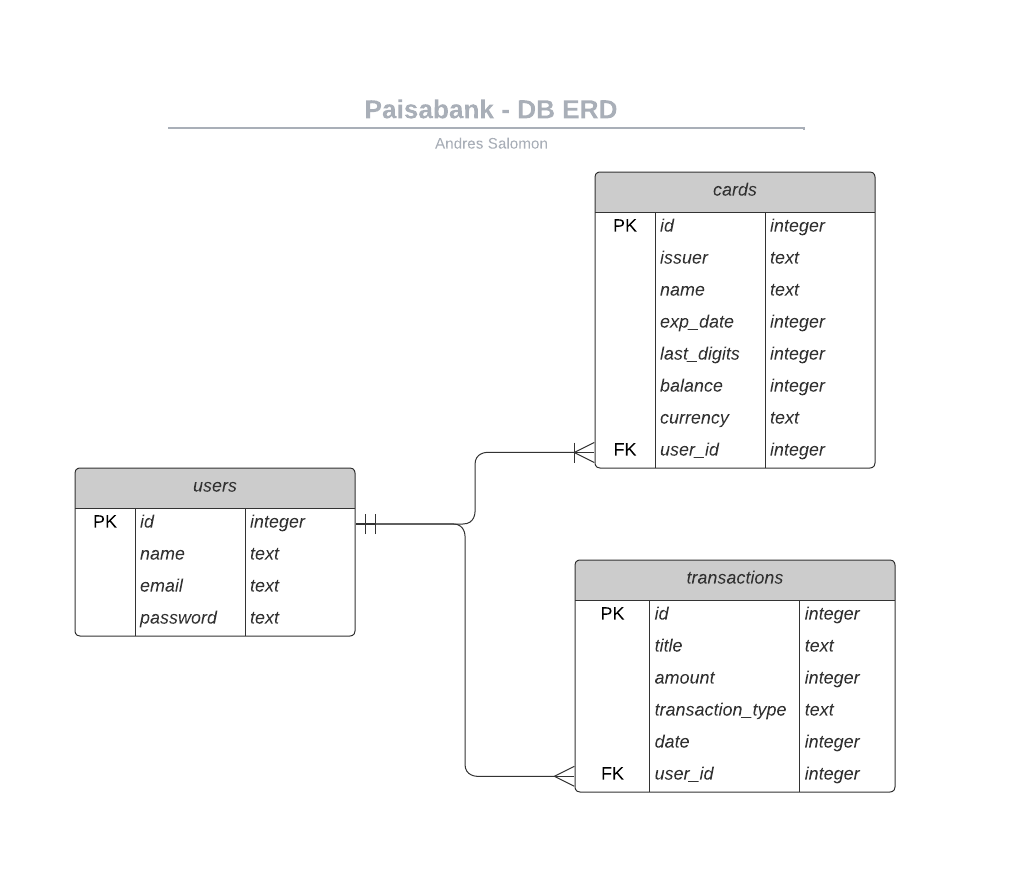
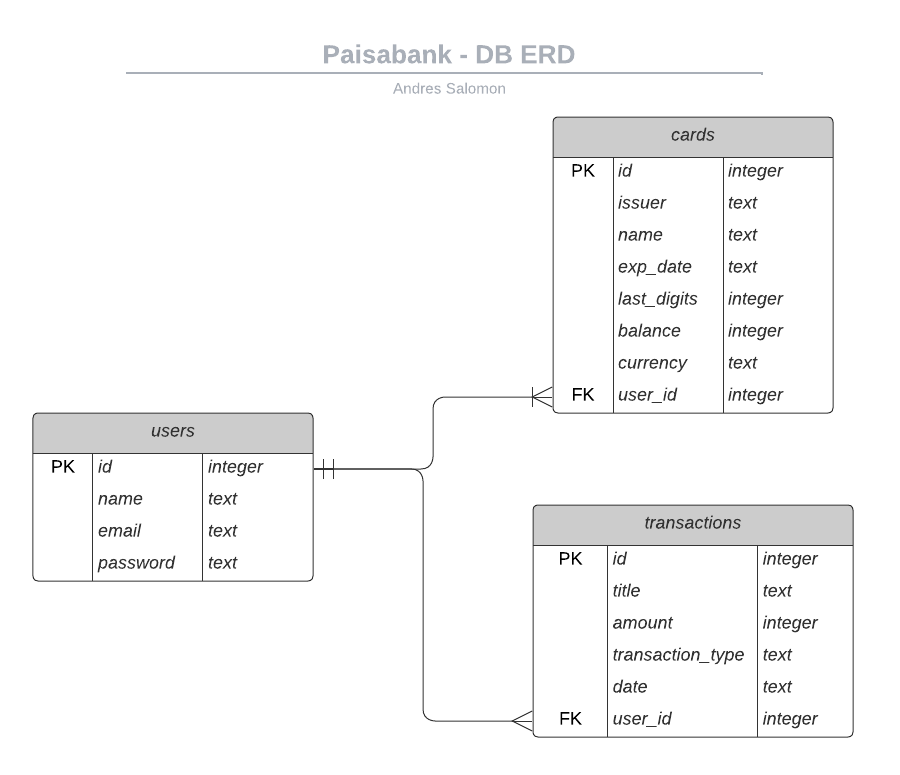
chore: update cards and transactions db schema. Update db ERD.

diff --git a/src/db/schemas/cards.ts b/src/db/schemas/cards.ts
@@ -8,7 +8,7 @@ export const CardsTable = sqliteTable("cards", {
   id: integer("id", { mode: "number" }).primaryKey({ autoIncrement: true }),
   issuer: text("issuer", { enum: ["VISA", "MASTERCARD"] }).notNull(),
   name: text("name").notNull(),
-  expirationDate: integer("expiration_date", { mode: "timestamp" }).notNull(),
+  expirationDate: text("expiration_date").notNull(),
   lastDigits: integer("last_digits", { mode: "number" }).notNull(),
   balance: integer("last_digits", { mode: "number" }).notNull(),
   currency: text("name", { enum: ["ARS", "USD"] }).notNull(),

diff --git a/src/db/schemas/transactions.ts b/src/db/schemas/transactions.ts
@@ -9,7 +9,7 @@ export const TransactionsTable = sqliteTable("transactions", {
   title: text("title").notNull(),
   amount: integer("amount", { mode: "number" }).notNull(),
   transactionType: text("transaction_type", { enum: ["SUS", "CASH_IN", "CASH_OUT"] }).notNull(),
-  date: integer("date", { mode: "timestamp" }).notNull(),
+  date: text("date").notNull(),
   user_id: integer("user_id", { mode: "number" })
     .notNull()
     .references(() => UsersTable.id),
